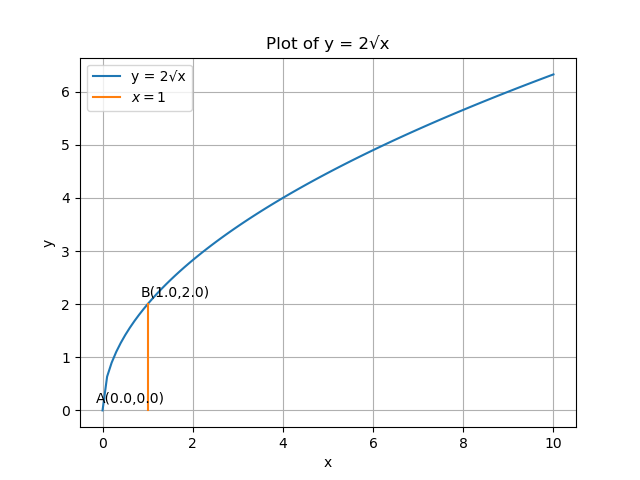
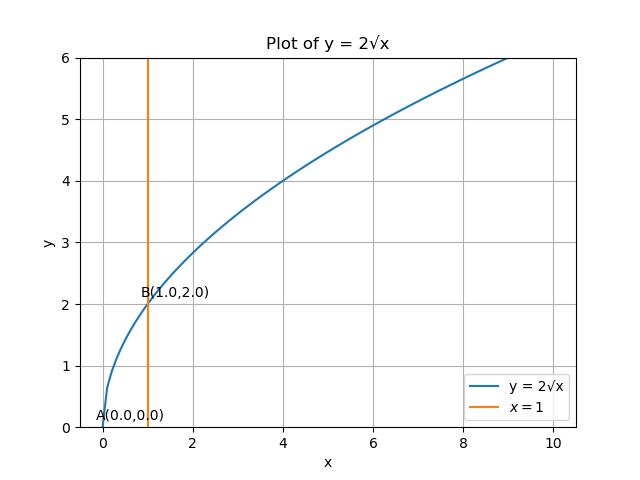
5th Assignment

diff --git a/Assignment5/Codes/plot.py b/Assignment5/Codes/plot.py
@@ -13,22 +13,25 @@ math_functions = ctypes.CDLL('./parabola.so')
 math_functions.compute_values.argtypes = (ctypes.POINTER(ctypes.c_double), ctypes.POINTER(ctypes.c_double), ctypes.c_int)
 math_functions.compute_value.argtypes = [ctypes.c_double]
 math_functions.compute_value.restype = ctypes.c_double
+math_functions.computeArea.argtypes=[ctypes.c_double,ctypes.c_double,ctypes.c_int]
+math_functions.computeArea.restype=ctypes.c_double
 
 
 x = np.linspace(0, 10, 100)  
 y = np.zeros_like(x)
 A = np.array(([0, math_functions.compute_value(0)])).reshape(-1, 1)
 B = np.array(([1, math_functions.compute_value(1)])).reshape(-1, 1)
-C = np.array(([1, 0])).reshape(-1, 1)
-x_1 = line_gen(C, B)
+C = np.array(([1, -1])).reshape(-1, 1)
+D = np.array(([1, 7])).reshape(-1, 1)
+x_1 = line_gen(C, D)
 
 
 
 math_functions.compute_values(x.ctypes.data_as(ctypes.POINTER(ctypes.c_double)),y.ctypes.data_as(ctypes.POINTER(ctypes.c_double)), len(x))
+print(f"The Area enclosed by the curve between x=0 and x=1 is {math_functions.computeArea(0,1,1000)}")
 
 
-
-
+plt.ylim([0, 6]) 
 plt.plot(x, y, label='y = 2√x')
 plt.plot(x_1[0, :], x_1[1, :], label='$x=1$')
 plt.annotate(f"A(0.0,{math_functions.compute_value(0)})", (0, math_functions.compute_value(0)), textcoords="offset points", xytext=(20, 5), ha='center')

diff --git a/Assignment5/Codes/parabola.c b/Assignment5/Codes/parabola.c
@@ -13,4 +13,14 @@ void compute_values(double* x, double* y, int n) {
 double compute_value(double x){
 	return 2*sqrt(x);
 }
+double computeArea(double a, double b, int n) {
+    double delta_x = (b - a) / n; // Step size
+    double area = 0.0;
+    for (int i = 0; i < n; i++) {
+        double x = a + i * delta_x;
+        double y = compute_value(x);
+        area += y* delta_x; // Add the area of each slice
+    }
+    return area;
+}
 
